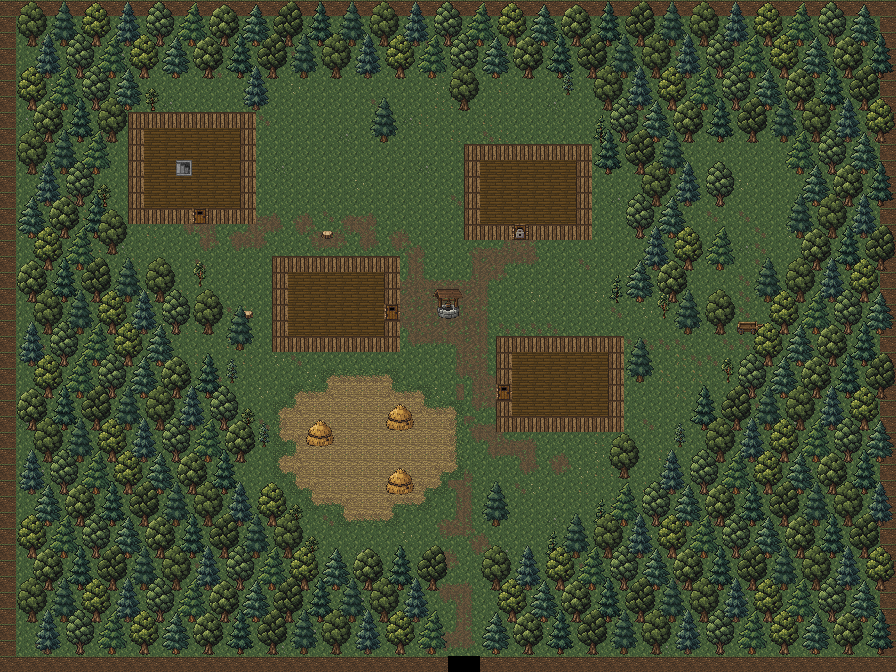
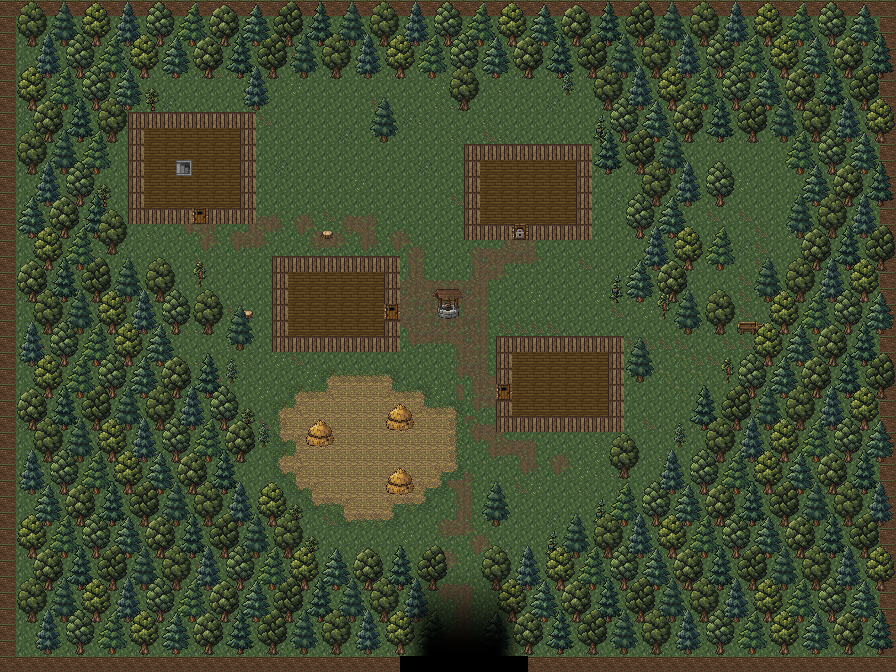
feat: add soft fades to forest passages
Fade paths and tree crowns into darkness over seven cells, with soft lateral edges. Hide the outer walls and overhangs around section passages without adding artwork or changing fog of war, transitions, or arrival points.

Update static previews and project documentation. Validation: core compilation and Android debug assembly passed; APK installed on the Wi-Fi tablet. Game and automated tests were not run.

Changed region(s): [[0.4375, 0.875, 0.5938, 1.0]]

diff --git a/core/src/main/java/com/shatteredpixel/shatteredpixeldungeon/effects/PassageFade.java b/core/src/main/java/com/shatteredpixel/shatteredpixeldungeon/effects/PassageFade.java
@@ -1,0 +1,110 @@
+/*
+ * Shattered Pixel Dungeon
+ * Copyright (C) 2014-2026 Evan Debenham
+ * Licensed under the GNU General Public License, version 3 or later.
+ */
+package com.shatteredpixel.shatteredpixeldungeon.effects;
+
+import com.shatteredpixel.shatteredpixeldungeon.levels.OutdoorLevel;
+import com.shatteredpixel.shatteredpixeldungeon.levels.features.LevelTransition;
+import com.shatteredpixel.shatteredpixeldungeon.tiles.DungeonTilemap;
+import com.watabou.gltextures.SmartTexture;
+import com.watabou.gltextures.TextureCache;
+import com.watabou.glwrap.Quad;
+import com.watabou.glwrap.Vertexbuffer;
+import com.watabou.noosa.NoosaScript;
+import com.watabou.noosa.NoosaScriptNoLighting;
+import com.watabou.noosa.Visual;
+
+import java.nio.Buffer;
+import java.nio.FloatBuffer;
+
+// A soft black overlay, using the engine's two-color ramp rather than an art asset.
+public class PassageFade extends Visual {
+
+	public static final int DEPTH = 7;
+	public static final int WALL_MARGIN = 3;
+	private static final float CORE_MARGIN = 1f;
+	private static final float FEATHER = 2f;
+	private static final int GRID_STEP = 4;
+	private static final int[] RAMP = {0x00000000, 0xFF000000};
+
+	private final SmartTexture texture;
+	private final FloatBuffer vertices;
+	private final int quads;
+	private final boolean vertical, nearEdge;
+	private Vertexbuffer buffer;
+
+	public PassageFade(OutdoorLevel level, LevelTransition transition) {
+		super(0, 0, 0, 0);
+		texture = TextureCache.createGradient(RAMP);
+		vertical = transition.top <= 2 || transition.bottom >= level.height() - 3;
+		nearEdge = vertical ? transition.top <= 2 : transition.left <= 2;
+		float size = DungeonTilemap.SIZE;
+		float margin = CORE_MARGIN + FEATHER;
+		if (vertical) {
+			x = (transition.left - margin) * size;
+			y = nearEdge ? 0 : (level.height() - DEPTH) * size;
+			width = (transition.width() + 2 * margin) * size;
+			height = DEPTH * size;
+		} else {
+			x = nearEdge ? 0 : (level.width() - DEPTH) * size;
+			y = (transition.top - margin) * size;
+			width = DEPTH * size;
+			height = (transition.height() + 2 * margin) * size;
+		}
+
+		int columns = (int) Math.ceil(width / GRID_STEP);
+		int rows = (int) Math.ceil(height / GRID_STEP);
+		quads = columns * rows;
+		vertices = Quad.createSet(quads);
+		for (int row = 0; row < rows; row++) {
+			float top = height * row / rows, bottom = height * (row + 1) / rows;
+			for (int col = 0; col < columns; col++) {
+				float left = width * col / columns, right = width * (col + 1) / columns;
+				vertex(left, top);
+				vertex(right, top);
+				vertex(right, bottom);
+				vertex(left, bottom);
+			}
+		}
+		((Buffer) vertices).position(0);
+		active = false;
+	}
+
+	private void vertex(float x, float y) {
+		float distance = vertical ? y : x;
+		if (!nearEdge) distance = DEPTH * DungeonTilemap.SIZE - distance;
+		// The outermost row is fully dark; the approach fades in with zero slope.
+		float depth = smooth((DEPTH * DungeonTilemap.SIZE - distance)
+				/ ((DEPTH - 1) * DungeonTilemap.SIZE));
+		float across = vertical ? x : y;
+		float span = vertical ? width : height;
+		float feather = FEATHER * DungeonTilemap.SIZE;
+		float alpha = depth * smooth(across / feather) * smooth((span - across) / feather);
+		// The ramp's texel centers map precisely to opacity 0 and 1.
+		vertices.put(x).put(y).put(0.25f + 0.5f * alpha).put(0.5f);
+	}
+
+	private static float smooth(float value) {
+		value = Math.max(0, Math.min(1, value));
+		return value * value * (3 - 2 * value);
+	}
+
+	@Override
+	public void draw() {
+		super.draw();
+		if (buffer == null) buffer = new Vertexbuffer(vertices);
+		NoosaScript script = NoosaScriptNoLighting.get();
+		texture.bind();
+		script.camera(camera());
+		script.uModel.valueM4(matrix);
+		script.drawQuadSet(buffer, quads, 0);
+	}
+
+	@Override
+	public void destroy() {
+		if (buffer != null) buffer.delete();
+		super.destroy();
+	}
+}

diff --git a/core/src/main/java/com/shatteredpixel/shatteredpixeldungeon/levels/OutdoorLevel.java b/core/src/main/java/com/shatteredpixel/shatteredpixeldungeon/levels/OutdoorLevel.java
@@ -8,6 +8,7 @@ package com.shatteredpixel.shatteredpixeldungeon.levels;
 import com.shatteredpixel.shatteredpixeldungeon.Assets;
 import com.shatteredpixel.shatteredpixeldungeon.actors.Actor;
 import com.shatteredpixel.shatteredpixeldungeon.actors.mobs.Mob;
+import com.shatteredpixel.shatteredpixeldungeon.effects.PassageFade;
 import com.shatteredpixel.shatteredpixeldungeon.levels.features.LevelTransition;
 import com.shatteredpixel.shatteredpixeldungeon.levels.painters.Painter;
 import com.shatteredpixel.shatteredpixeldungeon.tiles.CustomTilemap;
@@ -18,6 +19,7 @@ import com.shatteredpixel.shatteredpixeldungeon.tiles.SurfaceFloorTiles;
 import com.shatteredpixel.shatteredpixeldungeon.tiles.SurfaceForest;
 import com.shatteredpixel.shatteredpixeldungeon.tiles.SurfaceFurniture;
 import com.shatteredpixel.shatteredpixeldungeon.tiles.SurfaceHandcart;
+import com.watabou.noosa.Group;
 import com.watabou.noosa.audio.Music;
 
 // Shared rendering and obstacles for authored locations on the surface.
@@ -43,6 +45,18 @@ public abstract class OutdoorLevel extends Level {
 		return SurfaceFloorTiles.getVisual(cell, width());
 	}
 
+	@Override
+	public Group addWallVisuals() {
+		super.addWallVisuals();
+		// Above trunks, crowns and wall overhangs, below the fog of war.
+		for (LevelTransition transition : transitions) {
+			if (transition.type == LevelTransition.Type.SECTION) {
+				wallVisuals.add(new PassageFade(this, transition));
+			}
+		}
+		return wallVisuals;
+	}
+
 	protected abstract boolean isHouseCell(int x, int y);
 
 	protected abstract int sectionArrivalCell();
@@ -66,10 +80,11 @@ public abstract class OutdoorLevel extends Level {
 		int x = cell % width(), y = cell / width();
 		for (LevelTransition transition : transitions) {
 			if (transition.type != LevelTransition.Type.SECTION) continue;
-			if (x >= transition.left && x <= transition.right
+			int margin = PassageFade.WALL_MARGIN;
+			if (x >= transition.left - margin && x <= transition.right + margin
 					&& ((y == 0 && transition.top <= 2)
 					|| (y == height() - 1 && transition.bottom >= height() - 3))) return true;
-			if (y >= transition.top && y <= transition.bottom
+			if (y >= transition.top - margin && y <= transition.bottom + margin
 					&& ((x == 0 && transition.left <= 2)
 					|| (x == width() - 1 && transition.right >= width() - 3))) return true;
 		}

diff --git a/docs/art/passage-fade.md b/docs/art/passage-fade.md
@@ -1,0 +1,61 @@
+# Плавное затемнение лесных переходов
+
+Дата: 2026-11-04. По уточнению Автора поверх существующей графики наложен
+программный градиент: тропа среди деревьев плавно уходит в черноту,
+а внешняя стена в створе перехода полностью скрыта. Новые игровые
+изображения, текстуры в ресурсах и вызовы `image_gen` не использовались.
+
+![Слева — юг Залесья, справа — север Лесной тропы](forest-passages.png)
+
+Это статическая иллюстрация формулы затемнения поверх схемы из игровых
+ресурсов. Она не является скриншотом игры и не проверяет работу OpenGL.
+Размеры карт, лесные коридоры, триггеры и точки прибытия сохранены.
+
+## Отрисовка
+
+`effects/PassageFade.java` использует стандартную двухцветную полосу
+движка `TextureCache.createGradient()` и статическую сетку квадратов
+с шагом четыре игровых пикселя. Прозрачность задаётся координатой
+в существующем механизме градиента; собственный шейдер не добавлялся.
+Маленькая полоса прозрачного и непрозрачного чёрного создаётся в памяти,
+не записывается в PNG и повторно используется через кэш движка.
+
+По следующему уточнению Автора затемнение смягчено: его длина увеличена
+с пяти до семи клеток, а боковая кромка — с полутора до двух клеток.
+Так эффект становится более протяжённым и пологим, чтобы визуально
+отличаться от края обзора. Сам туман войны не менялся.
+
+Затемнение занимает семь клеток от края карты. Внешний ряд полностью
+чёрный в центре прохода; на подходе прозрачность плавно стремится к нулю.
+По сторонам градиент также плавный: по две клетки мягкой кромки
+вокруг центральной части. Непрозрачность задаёт `smoothstep` в обоих
+направлениях, поэтому у начала эффекта нет резкой поперечной границы.
+
+`OutdoorLevel.addWallVisuals()` размещает эффект над землёй, персонажами,
+стволами, кронами и нависающими частями стен, но ниже тумана войны.
+Туман и исследование территории сохраняют прежнюю отрисовку.
+Буфер сетки создаётся при первой отрисовке и удаляется вместе с эффектом.
+
+## Скрытие стены
+
+`isPassageMouth()` скрывает внешние стены в створе триггера с запасом
+по три клетки по сторонам. `SurfaceCliffTiles` сохраняет под ними чёрный
+фон и убирает верхний слой, включая нависающий край перед стеной.
+Земляной обрыв не просвечивает в градиенте и не образует порог поперёк тропы.
+Внешний ряд физически непроходим, как прежде; переход активируется перед ним.
+
+Изменение касается оформления. Оно восстанавливается из существующих
+переходов при создании сцены, не требует нового прохождения или миграции.
+Прибытие остаётся в (28, 37) в Залесье и (10, 4) в Лесной тропе,
+вне зон триггеров.
+
+## Проверка
+
+Просмотрены порядок слоёв, формула и сетка, освобождение буфера,
+статическое превью обоих направлений и diff. Изменений в
+`core/src/main/assets` нет. `:core:compileJava` и `:android:assembleDebug` успешны.
+После `adb devices -l` APK установлен обновлением на Wi-Fi планшет с явным
+serial `adb-eb278ce2-Gf1NFr._adb-tls-connect._tcp` (`Success`). Подтверждены
+пакет `com.shatteredpixel.shatteredpixeldungeon.indev`, версия `4.0.2-INDEV`
+(922) и время обновления `2026-11-04 17:48:26`.
+Игра, автотесты и игровые сценарии не запускались.

diff --git a/docs/AI_FAQ.md b/docs/AI_FAQ.md
@@ -250,7 +250,13 @@
 для секций `OutdoorLevel` выбирает отдельные точки (10, 4) и (28, 37),
 на две клетки вглубь карты от границы триггера. Для лестниц точка не менялась.
 На внешнем краю в створе прохода `isPassageMouth()` подменяет рисунок
-стены чёрным просветом и убирает нависающий край перед ним. Внешняя строка
+стены чёрным просветом с запасом по три клетки по сторонам и убирает
+нависающий край перед ним. `PassageFade` программно затемняет последние
+семь клеток тропы и кроны над ней, с плавной боковой кромкой в две клетки.
+По следующему уточнению Автора длина увеличена с пяти до семи клеток,
+кромка — с полутора до двух: эффект смягчён отдельно от края обзора.
+Слой находится под туманом войны; игровых PNG для градиента нет.
+Внешняя строка
 остаётся физически непроходимой для безопасности индексов; переход
 расположен перед ней. Новая пропасть и возможность падения не добавлены.
 Нужную точку использует каждый новый переход, включая сохранённые карты.
@@ -264,6 +270,14 @@
 тропой между деревьями. Для расширенных карт нужна новая игра;
 размеры и лес старых уровней не меняются при загрузке.
 См. [размеры, координаты и статические фрагменты](art/forest-passages.md).
+
+По последующему уточнению Автора резкий чёрный обрез заменён
+программным градиентом поверх существующей графики. Новый эффект
+в `OutdoorLevel.addWallVisuals()` использует стандартный градиент движка
+и статическую сетку, без новых игровых текстур и собственного шейдера.
+Это оформление работает при загрузке уже созданных карт, новая игра
+не нужна; размеры и триггеры сохранены.
+См. [формулу, слои и ограничения проверки](art/passage-fade.md).
 
 ## Как наружные земляные стены отделены от деревянных домов?
 
@@ -900,6 +914,24 @@ ADB вернул `Success`, обновление подтверждено дан
 устройстве; повторное сопряжение ADB само по себе её не устраняет.
 
 ## Какая сборка установлена последней?
+
+Последняя установка от `2026-11-04 17:48:26` смягчает программный градиент
+поверх троп и деревьев у переходов: длина увеличена с пяти до семи клеток,
+боковая кромка — с полутора до двух. Туман войны не менялся.
+Внешняя стена и нависающий край
+скрыты с запасом по сторонам; новые игровые PNG не добавлялись.
+Размеры карт, зоны переходов и точки прибытия не менялись.
+См. [эффект и статическую иллюстрацию](art/passage-fade.md).
+
+`:core:compileJava` и `:android:assembleDebug` успешны. После `adb devices -l`
+APK установлен обновлением на Wi-Fi планшет с явным serial
+`adb-eb278ce2-Gf1NFr._adb-tls-connect._tcp` (`Success`). Подтверждены пакет
+`com.shatteredpixel.shatteredpixeldungeon.indev`, версия `4.0.2-INDEV` (922)
+и время обновления. Просмотрены слои, сетка и формула, освобождение буфера,
+статические схемы, ссылки и diff. Новое прохождение для этого эффекта не нужно.
+Игра, автотесты и игровые сценарии не запускались.
+
+Предыдущая установка:
 
 Последняя установка от `2026-11-04 17:20:37` увеличивает Залесье до 56×42,
 а Лесную тропу — до 28×40. По обе стороны перехода перед тёмным краем

diff --git a/docs/art/woodland.md b/docs/art/woodland.md
@@ -40,8 +40,10 @@
 
 Первоначальная локация использовала прежние PNG. По следующему указанию
 Автора встроенным `image_gen` созданы [земляные обрывы](earth-cliffs.md)
-для внешних стен. Домик остаётся деревянным. Проход на краю карты изображён
-темнотой; все тропинки стали слабее и получили ответвления.
+для внешних стен. Домик остаётся деревянным. По последующему уточнению
+тропа среди деревьев плавно уходит в темноту под [программным градиентом](passage-fade.md),
+без новых игровых текстур. Стена в створе полностью скрыта. Все тропинки
+стали слабее и получили ответвления.
 Иллюстрация из чата сохранена только как референс документации.
 
 | Ресурс относительно `core/src/main/assets/environment/` | Использование |

diff --git a/docs/art/forest-passages.md b/docs/art/forest-passages.md
@@ -25,7 +25,10 @@
 Дом теперь начинается в (16, 12), дверь — (19, 18), колода с топором — (18, 23).
 Сдвиг на два ряда схемы сохраняет прежнее чередование горизонтальных смещений деревьев.
 
-Тёмный край остался только в конце видимого коридора. Земляные стены,
+По последующему уточнению Автора конец коридора плавно затемняется
+программным градиентом поверх тропы и деревьев. В створе прохода стены
+и нависающие части скрыты с боковым запасом. Новых игровых текстур нет;
+см. [плавное затемнение](passage-fade.md). Земляные стены,
 деревянные здания, прежние спрайты и слабые ветвящиеся дорожки сохранены.
 
 | Локация | Зона триггера | Центр триггера | Точка прибытия |
